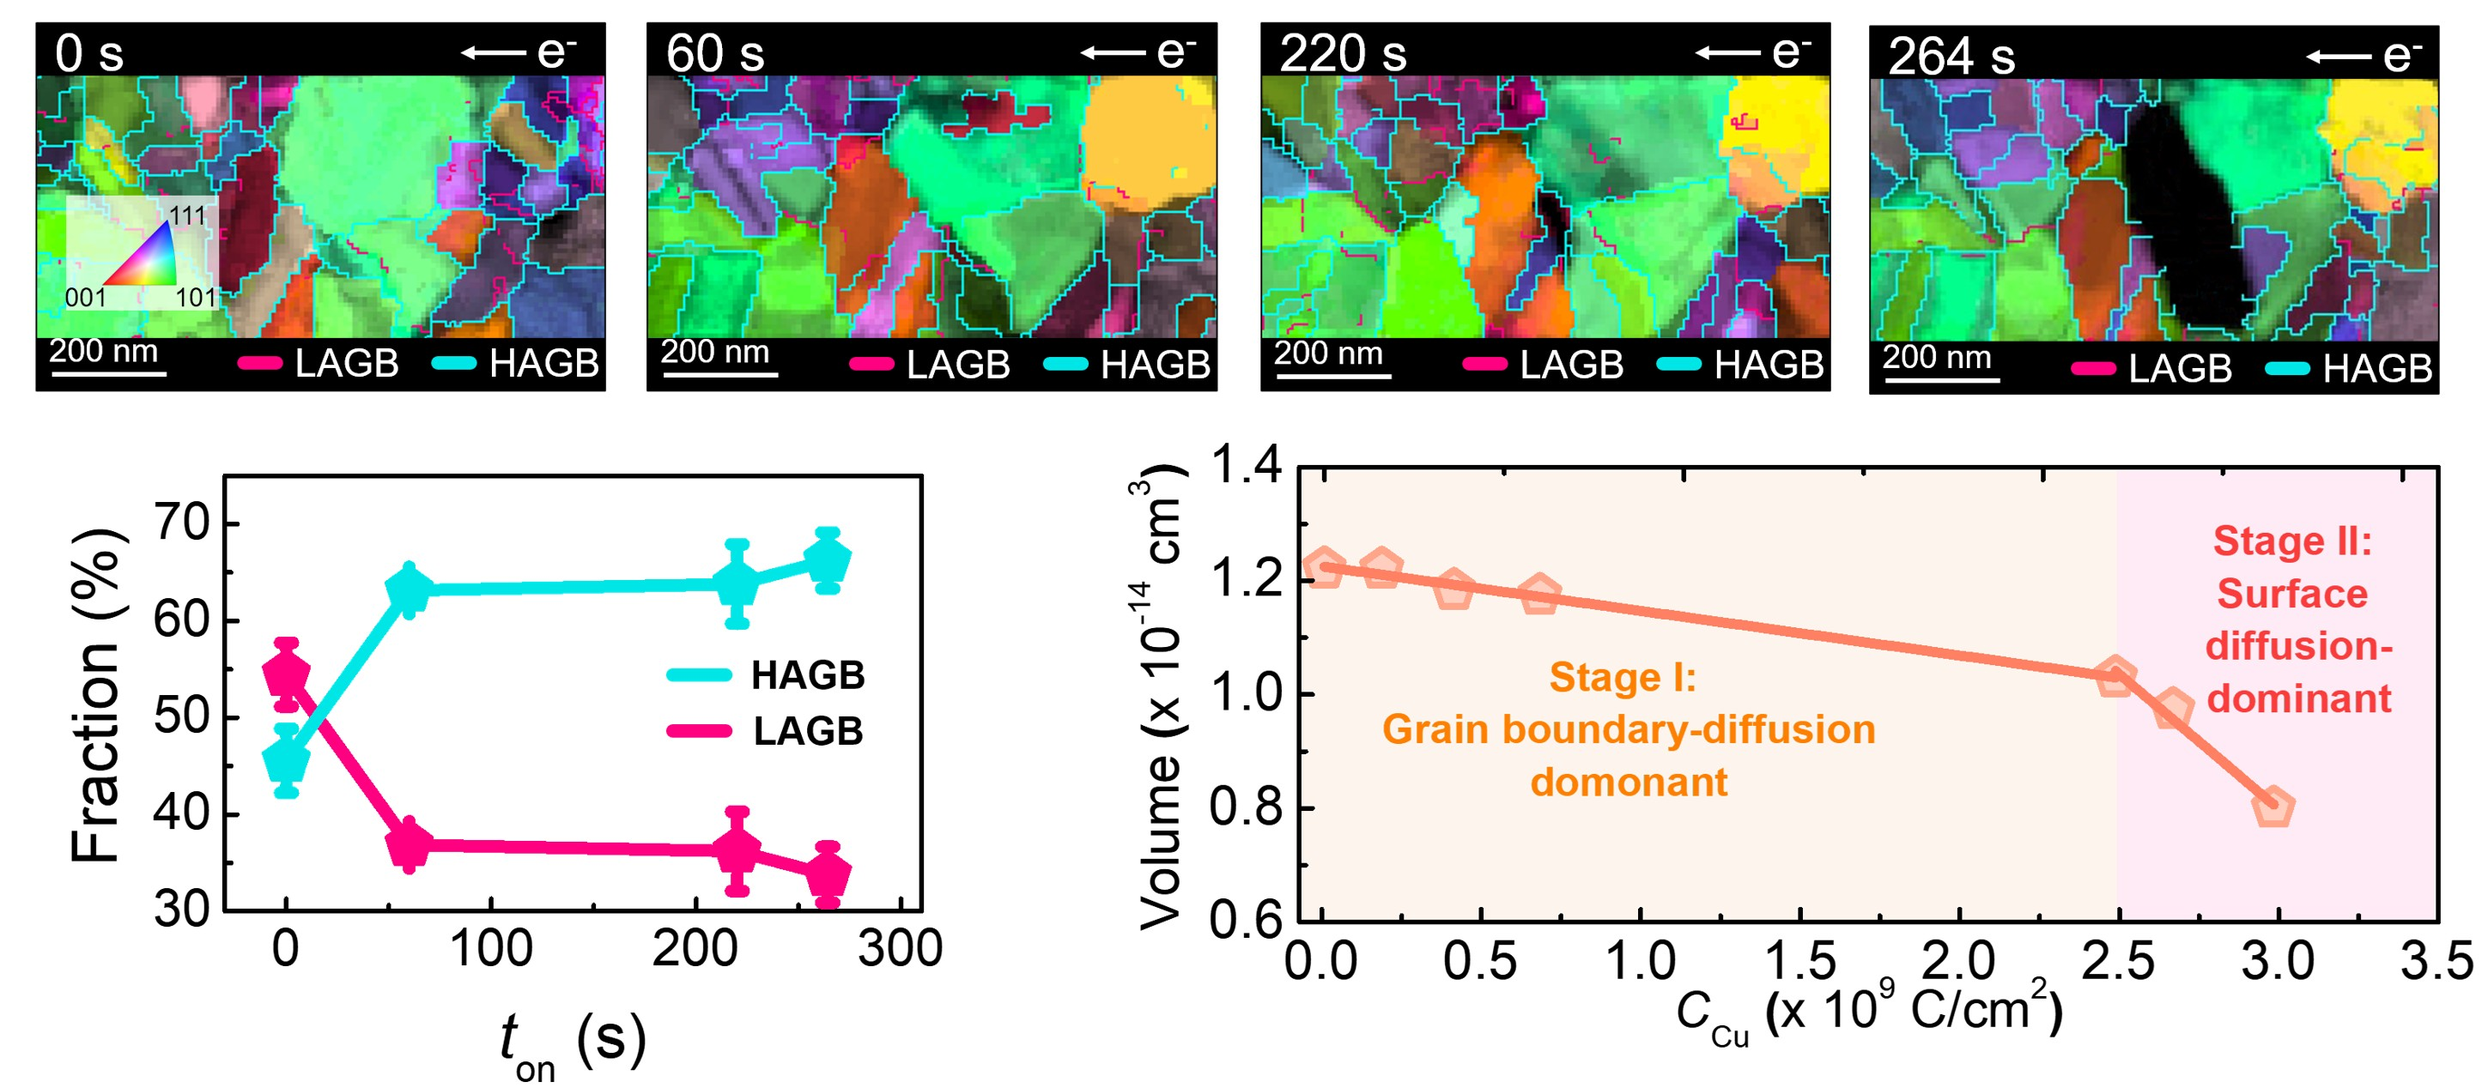
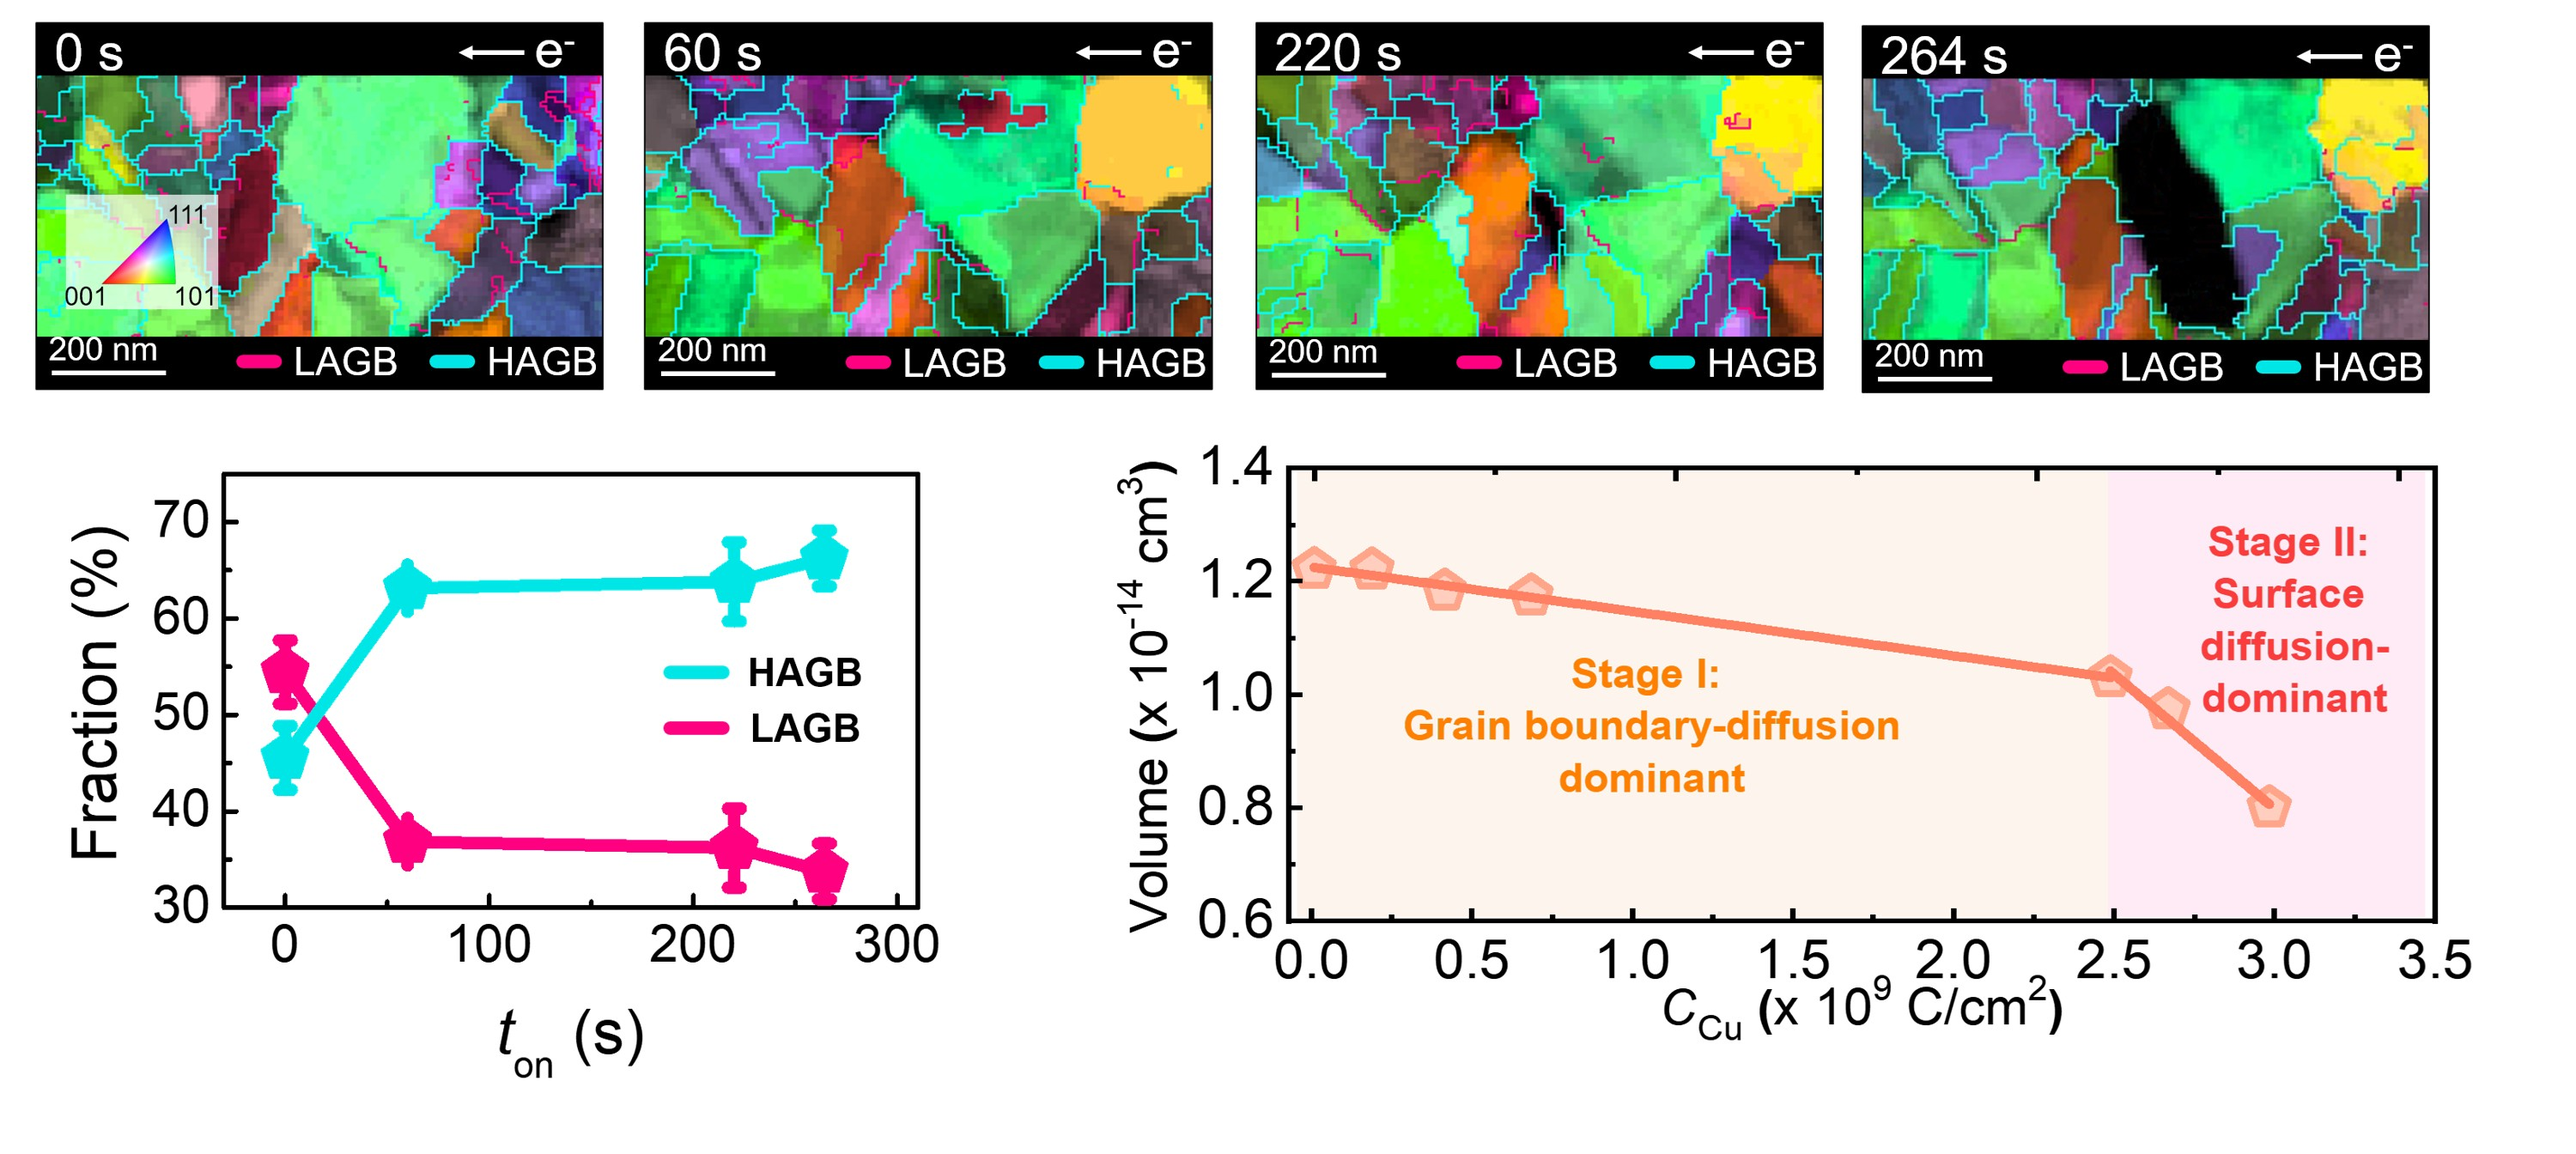
구리 하이라이트 그림 교체: src/assets/research 파이프라인으로 정합화
CMS 업로드가 /recruiting/ 경로로 저장돼 getResearchFigure가 해석하지
못해 FIGURE 빈칸으로 표시되던 문제 수정. 새 그림을 파이프라인 폴더로
옮기고 image 필드를 basename으로 원복, 잘못 올라간 파일 제거.

diff --git a/src/content/research-highlights/2026-untangling-copper-s-two-stage-electromigration-with-in-situ-4d‑stem.md b/src/content/research-highlights/2026-untangling-copper-s-two-stage-electromigration-with-in-situ-4d‑stem.md
@@ -8,6 +8,6 @@ doi: https://pubs.acs.org/doi/10.1021/acsnano.6c06734
 codeUrl: ''
 mention: ''
 mentionUrl: ''
-image: /recruiting/Cu-Cu bonding.jpg
+image: 2026-untangling-copper-electromigration.jpg
 imageAlt: ''
 ---
